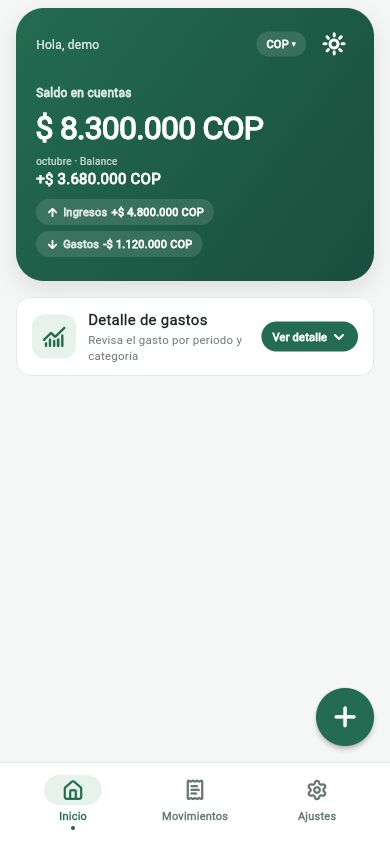
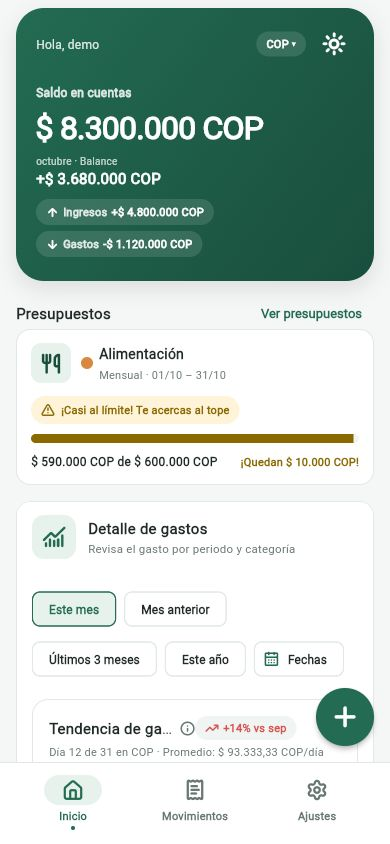
docs(ui): compare mobile movements and budgets

diff --git a/docs/pr/ui-mobile-comparison/README.md b/docs/pr/ui-mobile-comparison/README.md
@@ -1,17 +1,54 @@
-# Comparación móvil de Inicio
+# Comparación móvil: `develop` y rama del PR
 
-Las dos capturas usan el navegador web con un viewport de 390 × 844 px. La cuenta y los movimientos son datos sintéticos de demostración.
+Las capturas se tomaron en el navegador web con el mismo viewport de celular: **390 × 844 px**. Todas usan una cuenta de demostración y datos sintéticos.
 
-## Antes — `develop`
+## Inicio
 
-En `develop`, la ruta `/home` abre el flujo de Gastos con captura por texto.
+### Antes — `develop`
 
-![Inicio en develop](01-inicio-develop.jpg)
+En `develop`, `/home` abre el flujo de Gastos y la captura por texto.
 
-## Después — `codex/ui-consistency-mobile`
+![Inicio en develop, 390 × 844](01-inicio-develop.jpg)
 
-En esta rama, `/home` abre Inicio con el saldo, los ingresos y gastos del mes, y el acceso al análisis.
+### Después — `codex/ui-consistency-mobile`
 
-![Inicio actualizado](02-inicio-actual.jpg)
+Inicio reúne el saldo de **$ 8.300.000 COP**, ingresos de **$ 4.800.000 COP**, gastos de **$ 1.120.000 COP** y una vista previa del presupuesto más cercano a su límite.
 
-Para renderizar la captura base en web se cambió temporalmente el límite entero de moneda en una copia aislada de `develop`; el cambio no se incluye en este PR.
+![Inicio actualizado, 390 × 844](02-inicio-actual.jpg)
+
+## Movimientos
+
+### Antes — `develop`
+
+El historial se abría desde el flujo de Gastos.
+
+![Movimientos en develop, 390 × 844](03-movimientos-develop.jpg)
+
+### Después — `codex/ui-consistency-mobile`
+
+Movimientos tiene su propia pestaña con búsqueda, filtros por periodo, balance del listado y cuatro transacciones de ejemplo.
+
+![Movimientos actualizados, 390 × 844](04-movimientos-actual.jpg)
+
+## Presupuestos
+
+### Antes — `develop`
+
+La pantalla muestra tres presupuestos mensuales con su progreso por categoría.
+
+![Presupuestos en develop, 390 × 844](05-presupuestos-develop.jpg)
+
+### Después — `codex/ui-consistency-mobile`
+
+La lista mantiene los tres presupuestos de ejemplo y presenta sus estados próximos al límite con la interfaz unificada de la rama.
+
+![Presupuestos actualizados, 390 × 844](06-presupuestos-actual.jpg)
+
+## Datos de demostración
+
+- Saldo de la cuenta: **$ 8.300.000 COP**.
+- Ingresos del mes: **$ 4.800.000 COP**.
+- Gastos del mes: **$ 1.120.000 COP** en cuatro movimientos.
+- Presupuestos: **Alimentación ($ 590.000 de $ 600.000)**, **Transporte ($ 90.000 de $ 100.000)** y **Hogar ($ 440.000 de $ 500.000)**.
+
+Para preparar la captura base de `develop`, ajusté temporalmente el límite entero de moneda en una copia aislada porque la compilación web rechaza su valor original. Ese ajuste no forma parte de este PR.
